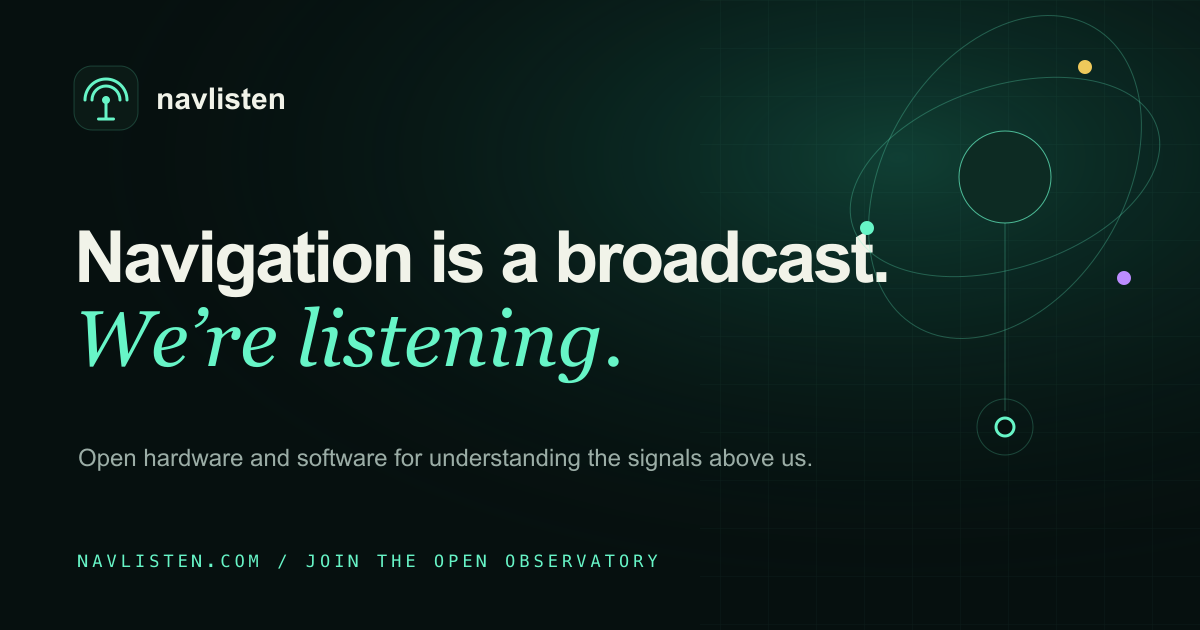
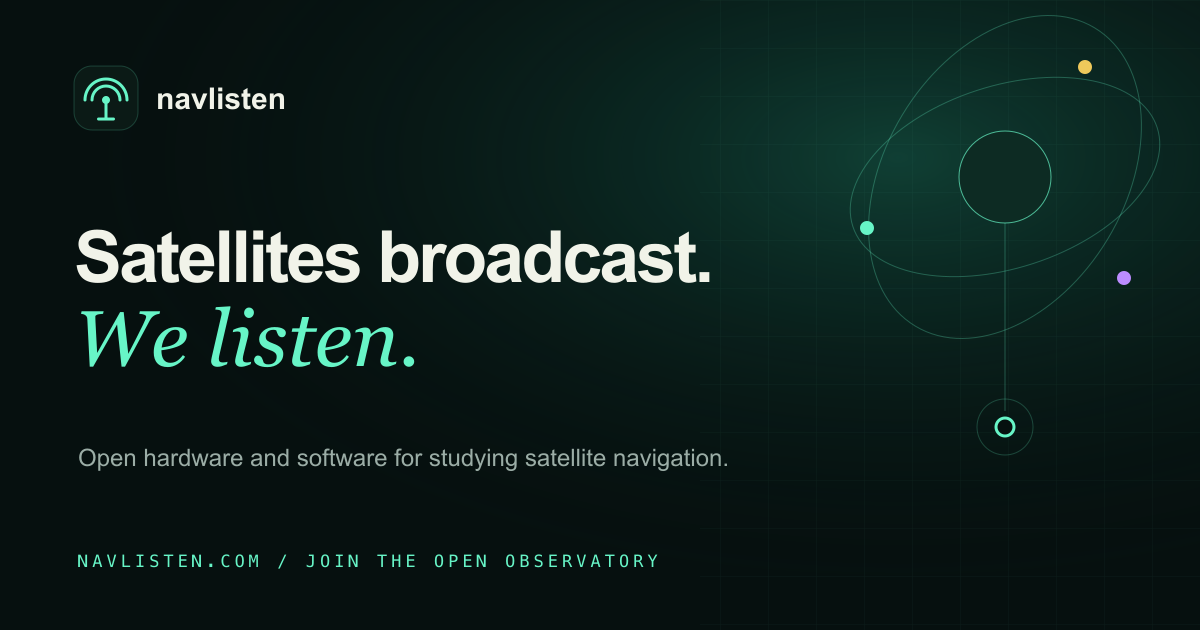
web: make website copy shorter and more concrete

Changed region(s): [[0.0617, 0.3619, 0.74, 0.6032], [0.3392, 0.6937, 0.6783, 0.754]]

diff --git a/web/src/App.vue b/web/src/App.vue
@@ -19,28 +19,28 @@ const layers = [
   {
     number: '01',
     eyebrow: 'Receive',
-    title: 'Start with the sky',
+    title: 'Receive satellite messages',
     copy: 'A satellite receiver captures navigation messages. Our purpose-built ESP32 observer brings the receiver and feeder together in one board.',
     tags: ['u-blox + Septentrio', 'Open hardware'],
   },
   {
     number: '02',
     eyebrow: 'Record',
-    title: 'Keep the original',
-    copy: 'Feeder software sends the messages to a collector. Each observation stays connected to the station that received it, building a record we can return to.',
+    title: 'Archive each message',
+    copy: 'Feeder software sends the messages to a collector. The archive keeps each original message with the identity of the station that received it.',
     tags: ['Raw message archive', 'Station identity'],
   },
   {
     number: '03',
     eyebrow: 'Understand',
-    title: 'Read the message',
+    title: 'Decode orbits and clocks',
     copy: 'Decoders turn supported broadcasts into satellite orbits, clock corrections, and health information. The calculations follow published signal specifications.',
     tags: ['Orbit and clock models', 'Documented calculations'],
   },
   {
     number: '04',
     eyebrow: 'Explore',
-    title: 'See the bigger picture',
+    title: 'Compare observations',
     copy: 'Compare observations across stations and over time. Use the API and Integrity Station app to explore the data, investigate changes, and build your own tools.',
     tags: ['Data API', 'Integrity Station app'],
   },
@@ -160,14 +160,14 @@ function emailHref(subject) {
       <div class="hero-grid container">
         <div class="hero-copy">
           <p class="eyebrow"><span class="pulse-dot"></span> An open navigation observatory</p>
-          <h1>Navigation is a broadcast.<br /><em>We’re listening.</em></h1>
+          <h1>Satellites broadcast.<br /><em>We listen.</em></h1>
           <p class="hero-lede">
-            A shared view of satellite navigation, built from the ground up. NavListen records
-            the messages satellites send so we can understand their orbits, clocks, and signals together.
+            NavListen records satellite navigation messages so we can study orbits, clocks,
+            and signals. Host an observer, explore the data, or help build the tools.
           </p>
           <div class="hero-actions">
             <a class="button button-primary" href="#join">
-              Find your way in <span aria-hidden="true">↓</span>
+              Get involved <span aria-hidden="true">↓</span>
             </a>
             <a class="button button-secondary" href="#system">See how it works <span aria-hidden="true">↓</span></a>
           </div>
@@ -211,25 +211,24 @@ function emailHref(subject) {
       <div class="container manifesto-grid">
         <div>
           <p class="section-kicker">Why listen</p>
-          <h2>There’s more to navigation than a location.</h2>
+          <h2>Track satellite orbits and clocks.</h2>
         </div>
         <div class="manifesto-copy">
           <p>
-            The same satellites that help us find our way also keep clocks in step. Their
-            broadcasts carry a rich story: where each satellite is going, how its clock is
-            behaving, and which signals are available.
+            Navigation satellites broadcast the orbit and clock data receivers use to calculate
+            position and time. They also send information about satellite health and available signals.
           </p>
           <p>
-            NavListen makes that story easier to study. By collecting original messages and
-            comparing observations from different places, we’re building a shared resource for
-            research, useful tools, and a better understanding of the systems we use every day.
+            NavListen archives these messages and compares observations from different stations.
+            Researchers and builders can return to the original data to investigate changes
+            and develop their own tools.
           </p>
         </div>
       </div>
       <div class="container use-cases">
-        <article><p class="section-kicker">For research</p><h3>Follow a question.</h3><p>Explore how satellite orbits and clocks change, with original messages to revisit.</p></article>
-        <article><p class="section-kicker">For operations</p><h3>Understand your sky.</h3><p>Bring local receiver observations into a wider picture of navigation conditions.</p></article>
-        <article><p class="section-kicker">For builders</p><h3>Make the next useful thing.</h3><p>Work with open hardware and software to create tools, experiments, and new ways to learn.</p></article>
+        <article><p class="section-kicker">For research</p><h3>Study orbits and clocks.</h3><p>Explore how satellite orbits and clocks change, with original messages to revisit.</p></article>
+        <article><p class="section-kicker">For operations</p><h3>Compare receiver observations.</h3><p>Study observations from your receiver alongside data from other stations.</p></article>
+        <article><p class="section-kicker">For builders</p><h3>Build with open tools.</h3><p>Use the hardware, software, and API to create tools and experiments.</p></article>
       </div>
     </section>
 
@@ -240,7 +239,7 @@ function emailHref(subject) {
           <h2>From antenna to evidence.</h2>
         </div>
         <p>
-          Receive a message, preserve it, understand it, and put it in context.
+          Receive, archive, decode, and compare satellite messages.
         </p>
       </div>
 
@@ -274,16 +273,16 @@ function emailHref(subject) {
         </div>
 
         <div class="hardware-copy">
-          <p class="section-kicker">A small board. A shared purpose.</p>
+          <p class="section-kicker">Receiver, feeder, and sensors</p>
           <h2>Meet the observer.</h2>
           <p class="hardware-lede">
             Our four-layer observer brings a satellite receiver, Wi-Fi, and environmental sensors
-            together on one board. It records what the satellites send and the conditions around
-            it, giving your patch of sky a place in the shared picture.
+            together on one board. It records satellite messages alongside temperature,
+            pressure, and humidity at your station.
           </p>
           <dl class="hardware-specs">
             <div><dt>Receiver</dt><dd>u-blox receiver options<br /><span>Part of a stack that also captures Septentrio data</span></dd></div>
-            <div><dt>Edge</dt><dd>ESP32<br /><span>Wi-Fi, USB-C, resilient feeder</span></dd></div>
+            <div><dt>Feeder</dt><dd>ESP32<br /><span>Wi-Fi, USB-C, resilient feeder</span></dd></div>
             <div><dt>Identity</dt><dd>Hardware-backed station identity<br /><span>A secure element keeps the station’s key on the board</span></dd></div>
             <div><dt>Sensors</dt><dd>Pressure · temperature · humidity<br /><span>Local conditions alongside each observation</span></dd></div>
           </dl>
@@ -321,12 +320,12 @@ function emailHref(subject) {
         </div>
 
         <div class="software-copy">
-          <p class="section-kicker">Software that remembers</p>
-          <h2>Ask what the sky said.</h2>
+          <p class="section-kicker">A reusable message archive</p>
+          <h2>Revisit every recorded message.</h2>
           <p>
-            A useful observation has a future. NavListen keeps original navigation messages
-            alongside their decoded information, so a new question or an improved decoder can
-            bring fresh insight to a familiar piece of sky.
+            NavListen keeps original navigation messages alongside their decoded information.
+            As decoders improve or new questions arise, you can run the calculations again
+            using the same recorded data.
           </p>
           <ul class="check-list">
             <li><span>01</span><div><strong>Follow the calculations</strong><p>Explore decoders and orbit models written from published satellite specifications.</p></div></li>
@@ -340,12 +339,12 @@ function emailHref(subject) {
     <section class="coverage section-pad">
       <div class="container coverage-inner">
         <div class="coverage-copy">
-          <p class="section-kicker">Every place adds a perspective</p>
-          <h2>Your patch of sky is part of the picture.</h2>
+          <p class="section-kicker">Expand the network</p>
+          <h2>Help us observe more satellites.</h2>
           <p>
-            Stations in different places hear different parts of the sky. Together, their
+            Stations in different locations receive signals from different satellites. Their
             observations help us compare local conditions and study regional navigation systems.
-            A home, a campus, or a workplace could be the next place we listen.
+            Host an observer at home, on campus, or at work to contribute data from your location.
           </p>
           <a class="text-link" href="#join">Explore hosting a station <span aria-hidden="true">→</span></a>
         </div>
@@ -366,7 +365,7 @@ function emailHref(subject) {
 
     <section id="join" class="join section-pad">
       <div class="container join-heading">
-        <p class="section-kicker">There is room at the workbench</p>
+        <p class="section-kicker">Host, build, or contribute</p>
         <h2>Come help us listen.</h2>
         <p>
           This project gets better with more disciplines, more stations, and more points of view.
@@ -386,7 +385,7 @@ function emailHref(subject) {
       <div id="work" class="container project-inquiry">
         <div>
           <p class="section-kicker">For teams &amp; organizations</p>
-          <h3>Bring us your use case.</h3>
+          <h3>Tell us about your project.</h3>
           <p>Exploring navigation monitoring for your site, a research deployment, or an integration?
             Tell us what you’re working on. Let’s talk about the hardware, data, and support you need.</p>
         </div>
@@ -399,8 +398,8 @@ function emailHref(subject) {
       <div class="container getting-started">
         <div>
           <p class="section-kicker">Getting started</p>
-          <h3>A few useful details.</h3>
-          <p>Every setup starts with a conversation. Here are a few answers to help you find your next step.</p>
+          <h3>Plan your contribution.</h3>
+          <p>Find out what you need to host an observer, use your receiver, or contribute without hardware.</p>
         </div>
         <div class="question-list">
           <details v-for="item in questions" :key="item.question">
@@ -413,8 +412,8 @@ function emailHref(subject) {
       <div class="container final-cta">
         <div>
           <span class="pulse-dot"></span>
-          <p>THE SKY IS ALREADY TALKING</p>
-          <h2>Let’s hear it together.</h2>
+          <p>JOIN NAVLISTEN</p>
+          <h2>Let’s get started.</h2>
           <a class="contact-address" href="mailto:ptudor@ptudor.net">ptudor@ptudor.net</a>
         </div>
         <a class="button button-light" :href="emailHref('Hello NavListen')">Say hello <span aria-hidden="true">↗</span></a>
@@ -426,7 +425,7 @@ function emailHref(subject) {
     <div class="container footer-grid">
       <div>
         <a class="brand footer-brand" href="#top"><img src="/assets/mark.svg" width="34" height="34" alt="" /><span>navlisten</span></a>
-        <p>Open tools for understanding the signals above us.</p>
+        <p>Open tools for studying satellite navigation.</p>
       </div>
       <nav aria-label="Footer navigation">
         <a href="#why">Why listen</a>

diff --git a/web/index.html b/web/index.html
@@ -11,15 +11,15 @@
     />
     <meta
       name="description"
-      content="Explore satellite navigation with NavListen. Open hardware, software, and a shared invitation to host an observer, contribute, or discuss a project for your team."
+      content="NavListen records satellite navigation messages. Host an observer, study orbits and clocks, or build with open hardware and software."
     />
     <meta name="application-name" content="NavListen" />
     <meta property="og:type" content="website" />
     <meta property="og:site_name" content="NavListen" />
-    <meta property="og:title" content="NavListen — Navigation is a broadcast. We’re listening." />
+    <meta property="og:title" content="NavListen — Satellites broadcast. We listen." />
     <meta
       property="og:description"
-      content="A shared view of satellite navigation. Explore open hardware and software, host an observer, or bring us your team’s use case."
+      content="NavListen records satellite navigation messages. Host an observer, study orbits and clocks, or build with open hardware and software."
     />
     <meta property="og:url" content="https://navlisten.com/" />
     <meta property="og:image" content="https://navlisten.com/assets/og-image.png" />

diff --git a/web/README.md b/web/README.md
@@ -8,6 +8,8 @@ station hosts, researchers, and prospective customers.
 Keep the voice welcoming, practical, and collaborative. Explain what people can do with
 NavListen and how to take part. Write for both volunteers and customers; give each a clear
 way to start a conversation. The observer exists: describe the hardware in present tense.
+Use short, active sentences and concrete headings. Name what people can observe, study,
+or build.
 
 Use plain language before technical detail. Illustrations should explain the system and
 be labeled as illustrations. Avoid invented telemetry, precision claims, live status, or
